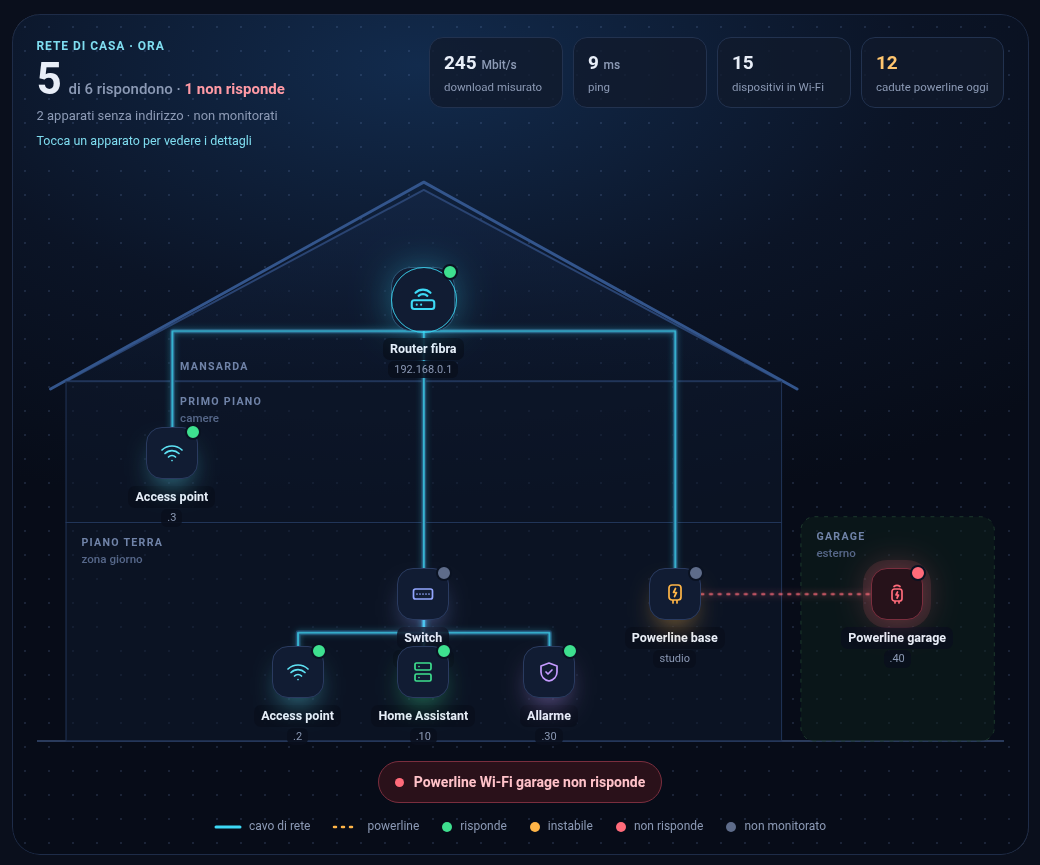
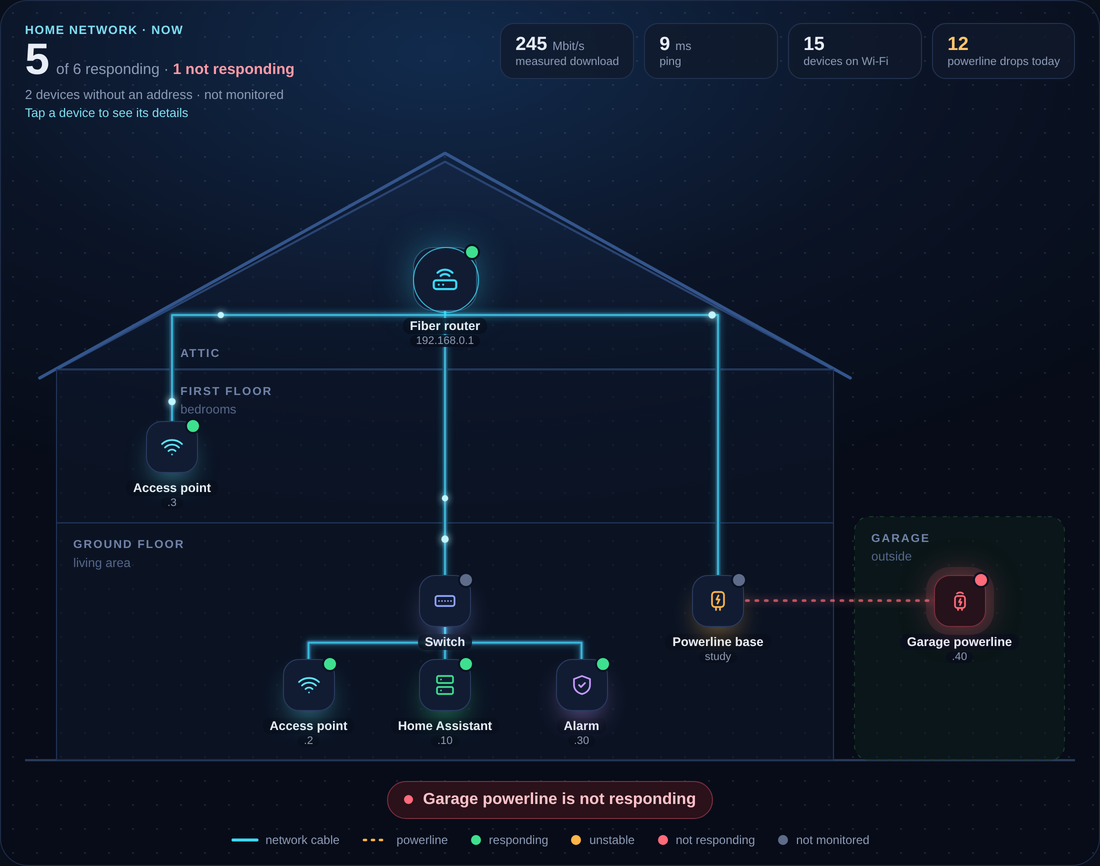
README: English home map screenshot, Italian one for README.it

diff --git a/README.it.md b/README.it.md
@@ -77,9 +77,9 @@ Quattro anelli da 3 colonne stanno su una riga.
 
 Vuoi vedere tutta la rete di casa, piano per piano? **Homeray Pro** aggiunge la mappa della casa: l'edificio disegnato a spaccato, con router, switch e access point nella loro stanza, i cavi e le powerline, lo stato in tempo reale e la scheda di ogni apparato. Si disegna da sola a partire dall'elenco dei piani e dei collegamenti.
 
-![Mappa della casa di Homeray Pro](images/homeray-pro-map.png)
+![Mappa della casa di Homeray Pro](images/homeray-pro-map-it.png)
 
-Homeray Pro comprende anche un tema scuro, una dashboard di sistema pronta, la modalità demo con dati finti e la guida completa. → **[homeray.app](https://homeray.app)**
+Homeray Pro è in italiano e in inglese e comprende anche un tema scuro, una dashboard di sistema pronta, la modalità demo con dati finti e la guida completa. → **[homeray.app](https://homeray.app)**
 
 ## Licenza
 

diff --git a/README.md b/README.md
@@ -83,7 +83,7 @@ Want to see your whole home network, floor by floor? **Homeray Pro** adds the ho
 
 ![Homeray Pro home map](images/homeray-pro-map.png)
 
-Homeray Pro also includes a dark theme, a ready-made system dashboard, a demo mode with fake data and a full guide. → **[homeray.app](https://homeray.app)**
+Homeray Pro speaks English and Italian, and also includes a dark theme, a ready-made system dashboard, a demo mode with fake data and a full guide. → **[homeray.app](https://homeray.app)**
 
 ## License
 
